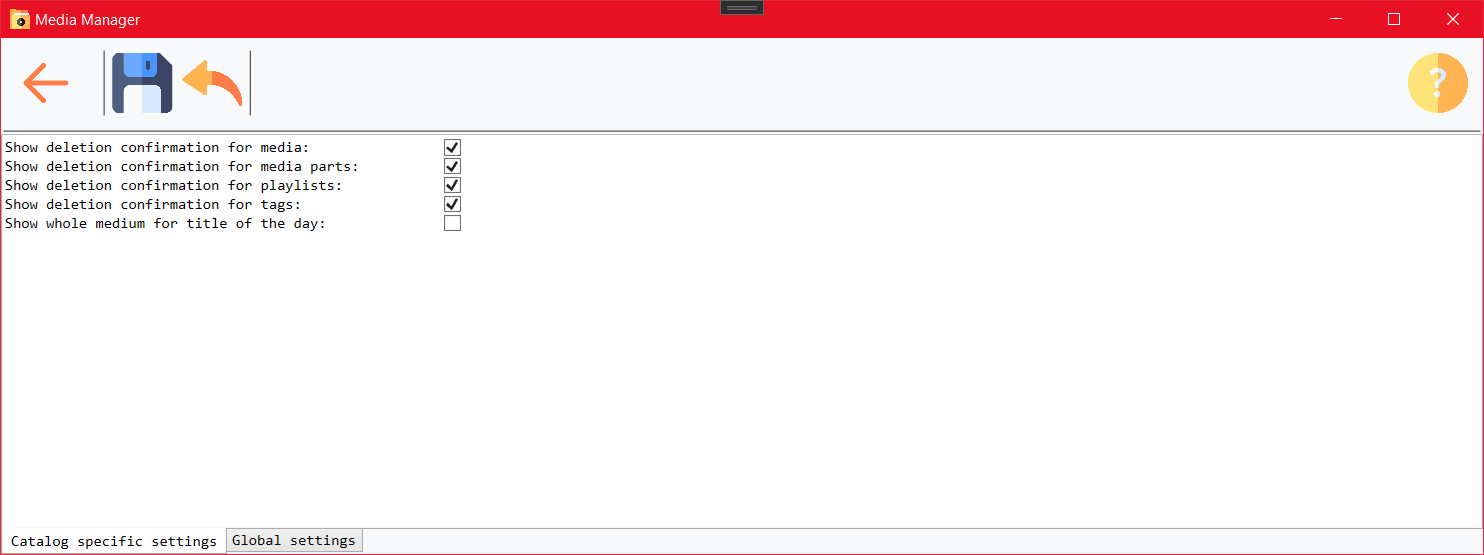
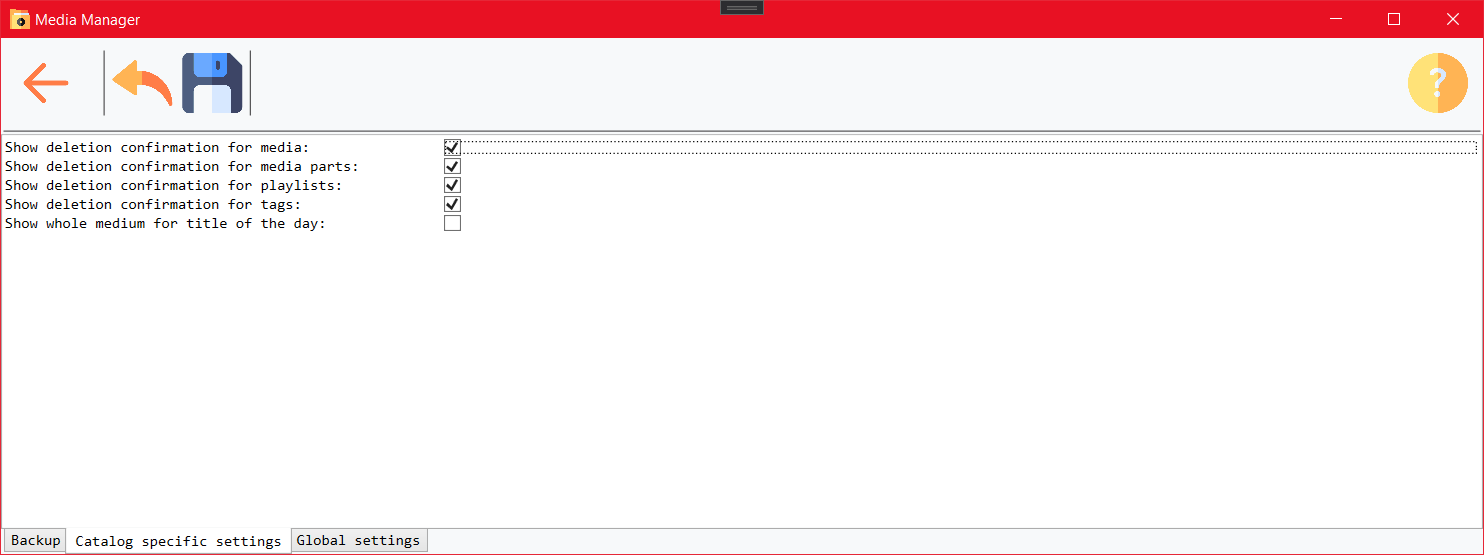
feat(HelpMenu): update regarding settings

Changed region(s): [[0.0, 0.9495, 0.279, 1.0], [0.062, 0.0919, 0.186, 0.2144]]

diff --git a/MediaManager/MediaManager/Properties/Resources.Designer.cs b/MediaManager/MediaManager/Properties/Resources.Designer.cs
@@ -633,6 +633,16 @@ namespace MediaManager.Properties {
         /// <summary>
         ///   Looks up a localized resource of type System.Drawing.Bitmap.
         /// </summary>
+        internal static System.Drawing.Bitmap SettingsMenu_Backup {
+            get {
+                object obj = ResourceManager.GetObject("SettingsMenu_Backup", resourceCulture);
+                return ((System.Drawing.Bitmap)(obj));
+            }
+        }
+        
+        /// <summary>
+        ///   Looks up a localized resource of type System.Drawing.Bitmap.
+        /// </summary>
         internal static System.Drawing.Bitmap SettingsMenu_Catalog {
             get {
                 object obj = ResourceManager.GetObject("SettingsMenu_Catalog", resourceCulture);

diff --git a/MediaManager/MediaManager/GUI/HelpTopics/Topics.cs b/MediaManager/MediaManager/GUI/HelpTopics/Topics.cs
@@ -126,6 +126,11 @@ namespace MediaManager.GUI.HelpTopics
                 {
                     new ShortHelpTopic
                     {
+                        LanguageFileKey = "BackupSettings",
+                        PageImages = new List<System.Drawing.Bitmap> { Resources.SettingsMenu_Backup }
+                    },
+                    new ShortHelpTopic
+                    {
                         LanguageFileKey = "GlobalSettings",
                         PageImages = new List<System.Drawing.Bitmap> { Resources.SettingsMenu_Global, Resources.SettingsMenu_Global, Resources.SettingsMenu_Global }
                     },
